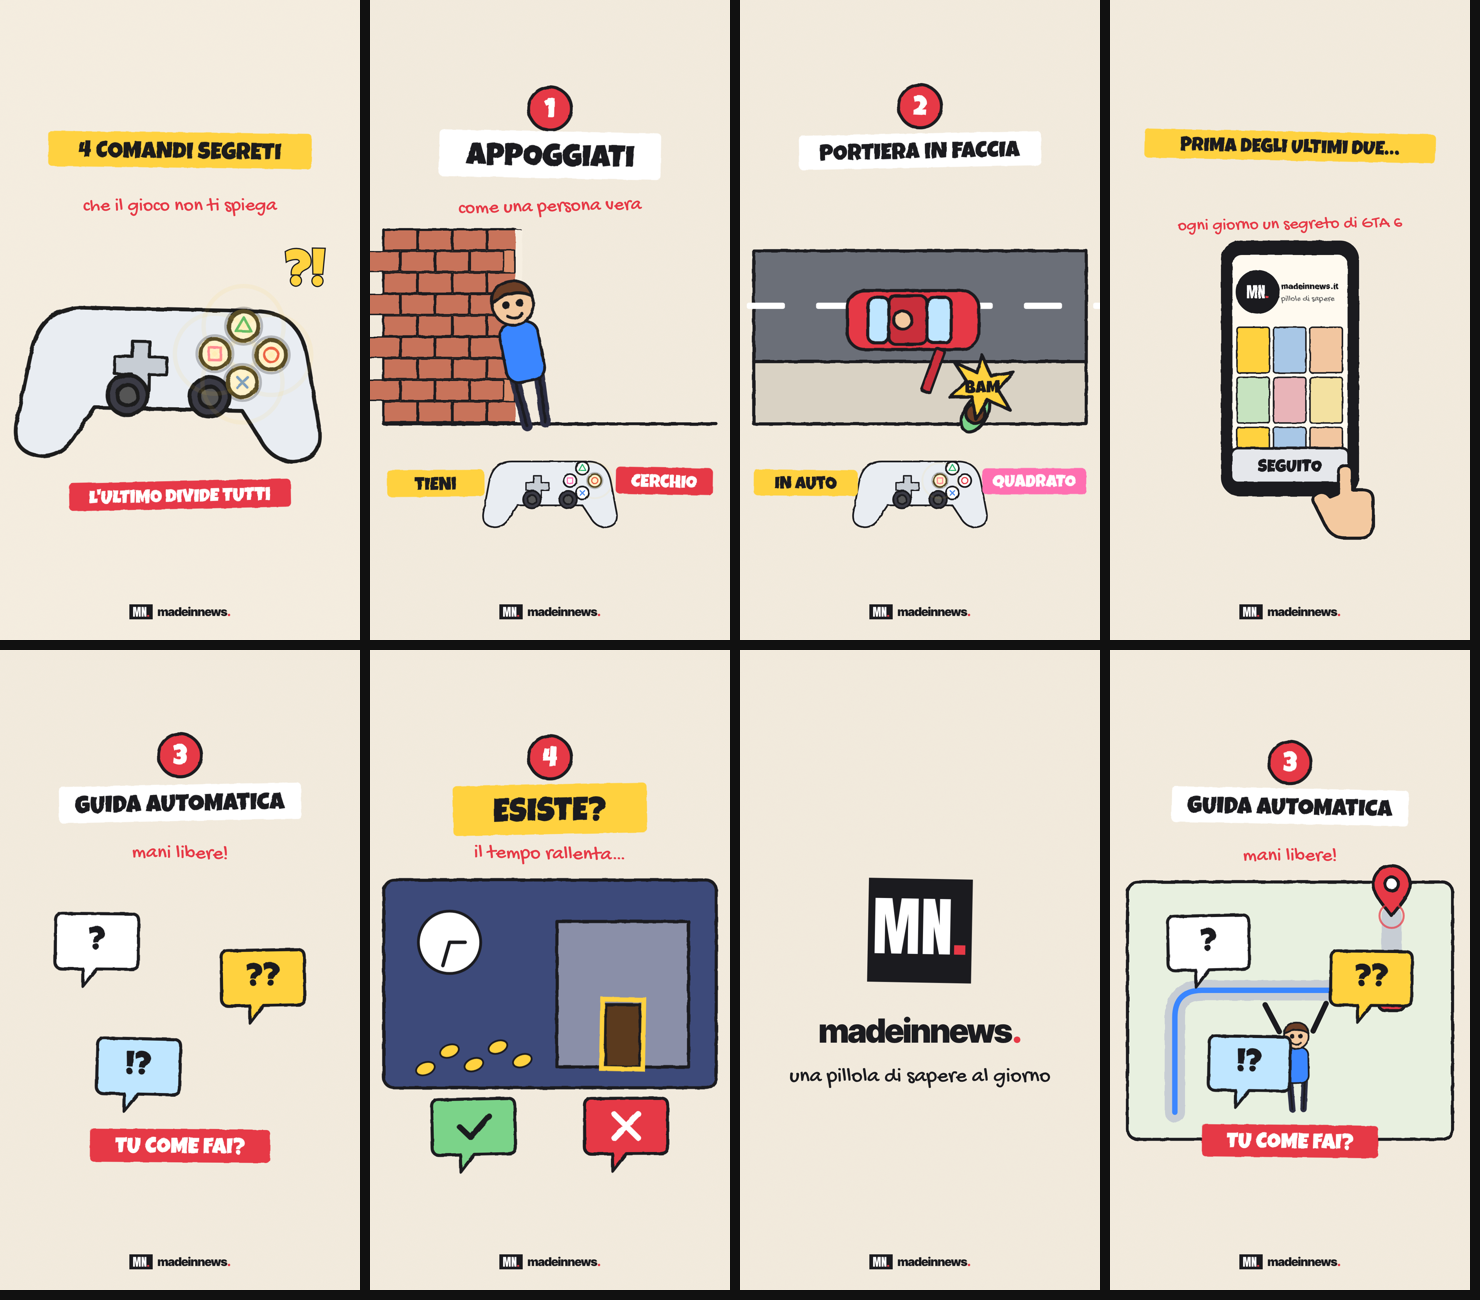
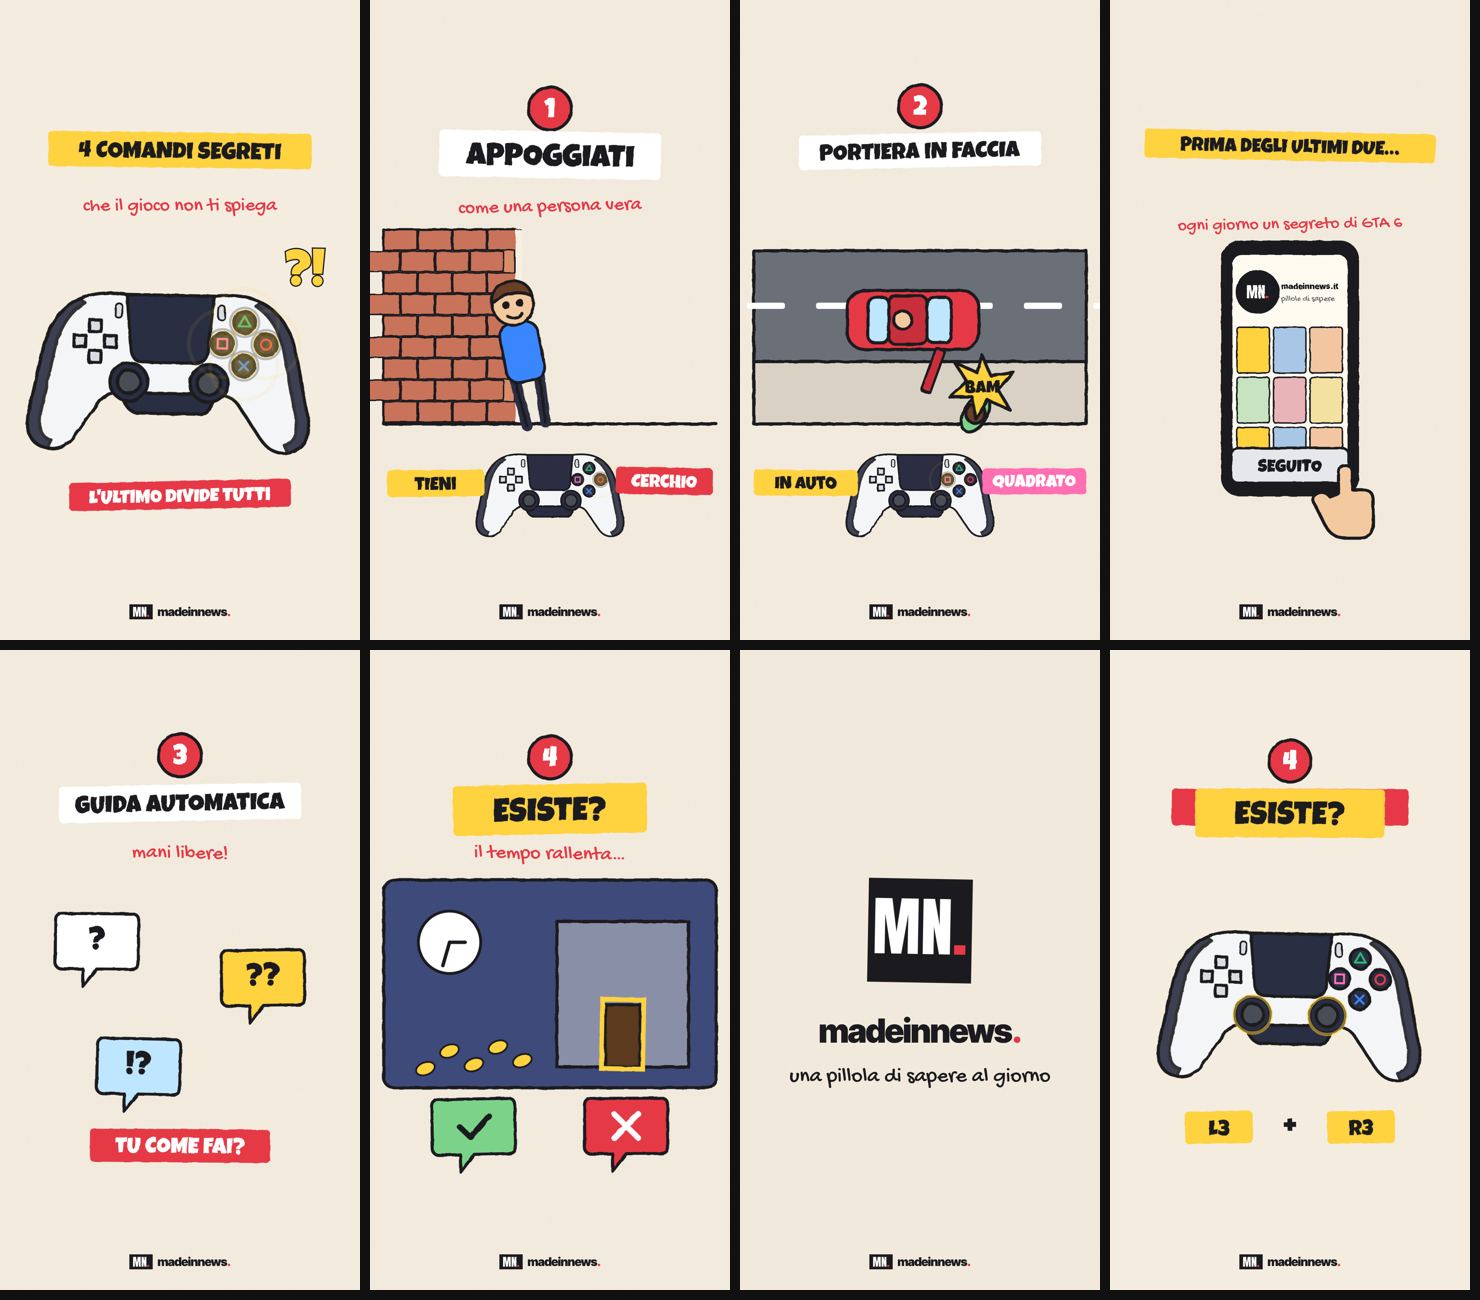
Reel comandi: nuovo controller
Claude-Session: https://claude.ai/code/session_01RiLp1FWEa9A5i6rpLf5r8e

diff --git a/engine/comandi_build.js b/engine/comandi_build.js
@@ -49,14 +49,20 @@ const pistol=(x,y,s=1)=>`<g transform="translate(${x},${y}) scale(${s})" filter=
 const target=(x,y,s=1)=>`<g transform="translate(${x},${y}) scale(${s})" filter="url(#wob)" ${W}><circle r="90" fill="#fff"/><circle r="62" fill="${RED}"/><circle r="36" fill="#fff"/><circle r="14" fill="${RED}"/></g>`;
 const pin=(x,y,t,c=RED)=>`<g data-drop="${t},0.6,-400"><g filter="url(#wob)" ${W}><path d="M${x} ${y} c-34 -44 -54 -64 -54 -94 a54 54 0 0 1 108 0 c0 30 -20 50 -54 94z" fill="${c}"/><circle cx="${x}" cy="${y-94}" r="20" fill="#fff"/></g></g><circle cx="${x}" cy="${y}" r="16" fill="none" stroke="${c}" stroke-width="6" data-ripple="${t},1.4"/>`;
 const PSG='#2bb673',PSR='#e63946',PSB='#3a86ff',PSP='#ff6fb1';
-const BTN={tri:[170,-95],cir:[235,-30],cro:[170,35],squ:[105,-30],l3:[-95,70],r3:[95,70]};
+const BTN={tri:[205,-95],cir:[265,-35],cro:[205,25],squ:[145,-35],l3:[-110,75],r3:[110,75]};
 const controller=(x,y,s,hlt={})=>`<g transform="translate(${x},${y}) scale(${s})">
- <g filter="url(#wob)" ${W}><path d="M-200 -130 L200 -130 Q300 -130 320 -20 L350 140 Q360 210 290 215 Q240 215 210 160 L170 100 L-170 100 L-210 160 Q-240 215 -290 215 Q-360 210 -350 140 L-320 -20 Q-300 -130 -200 -130Z" fill="#e9edf2"/>
- <path d="M-195 -55 h50 v-45 h50 v45 h50 v50 h-50 v45 h-50 v-45 h-50z" transform="translate(30,25) scale(.8)" fill="#c7cdd4"/>
- ${[['tri',PSG],['cir',PSR],['cro',PSB],['squ',PSP]].map(([k,c])=>`<circle cx="${BTN[k][0]}" cy="${BTN[k][1]}" r="34" fill="#fff"/>`).join('')}
- <path d="M170 -115 l18 32 h-36z" fill="none" stroke="${PSG}" stroke-width="6"/><circle cx="235" cy="-30" r="16" fill="none" stroke="${PSR}" stroke-width="6"/><path d="M158 23 l24 24 M182 23 l-24 24" stroke="${PSB}" stroke-width="6"/><rect x="91" y="-44" width="28" height="28" fill="none" stroke="${PSP}" stroke-width="6"/>
- <circle cx="-95" cy="70" r="46" fill="#3a3a44"/><circle cx="95" cy="70" r="46" fill="#3a3a44"/><circle cx="-95" cy="70" r="24" fill="#555"/><circle cx="95" cy="70" r="24" fill="#555"/></g>
- ${Object.entries(hlt).map(([k,t])=>`<g data-fade="${t},0.2" style="opacity:0"><g data-flash="${t},0.35,0.35"><circle cx="${BTN[k][0]}" cy="${BTN[k][1]}" r="${k[1]=='3'?54:42}" fill="${YEL}" opacity=".75" stroke="${INK}" stroke-width="6"/></g></g><circle cx="${BTN[k][0]}" cy="${BTN[k][1]}" r="40" fill="none" stroke="${YEL}" stroke-width="10" data-ripple="${t},1.2"/>`).join('')}</g>`;
+ <g filter="url(#wob)" ${W}>
+ <path d="M-250 -150 Q-200 -175 -120 -165 L120 -165 Q200 -175 250 -150 Q330 -110 350 0 L385 170 Q395 250 330 262 Q285 268 255 225 L190 130 Q170 105 130 105 L-130 105 Q-170 105 -190 130 L-255 225 Q-285 268 -330 262 Q-395 250 -385 170 L-350 0 Q-330 -110 -250 -150Z" fill="#f4f5f7"/>
+ <path d="M-120 -165 L120 -165 L105 -10 Q100 20 70 20 L-70 20 Q-100 20 -105 -10Z" fill="#2b2d42"/>
+ <path d="M-130 105 L130 105 Q120 150 90 160 L-90 160 Q-120 150 -130 105Z" fill="#2b2d42"/>
+ <path d="M-350 0 Q-330 -110 -250 -150 L-235 -140 Q-300 -100 -318 0 L-352 170 Q-360 230 -320 240 L-330 262 Q-395 250 -385 170Z" fill="#2b2d42" opacity=".9"/>
+ <path d="M350 0 Q330 -110 250 -150 L235 -140 Q300 -100 318 0 L352 170 Q360 230 320 240 L330 262 Q395 250 385 170Z" fill="#2b2d42" opacity=".9"/>
+ ${[[0,-1],[0,1],[-1,0],[1,0]].map(([dx,dy])=>`<path d="M${-205+dx*42-16} ${-35+dy*42-16} h32 v32 h-32z" transform="rotate(${dx?0:0})" fill="#d9dde3"/>`).join('')}
+ ${['tri','cir','cro','squ'].map(k=>`<circle cx="${BTN[k][0]}" cy="${BTN[k][1]}" r="30" fill="#2b2d42"/>`).join('')}
+ <circle cx="-110" cy="75" r="52" fill="#2b2d42"/><circle cx="110" cy="75" r="52" fill="#2b2d42"/><circle cx="-110" cy="75" r="32" fill="#4a4e57"/><circle cx="110" cy="75" r="32" fill="#4a4e57"/>
+ <rect x="-150" y="-140" width="18" height="40" rx="8" fill="#d9dde3" stroke-width="5"/><rect x="132" y="-140" width="18" height="40" rx="8" fill="#d9dde3" stroke-width="5"/></g>
+ <g stroke-width="6" fill="none" stroke-linecap="round" stroke-linejoin="round"><path d="M205 -112 l16 28 h-32z" stroke="${PSG}"/><circle cx="265" cy="-35" r="14" stroke="${PSR}"/><path d="M193 13 l24 24 M217 13 l-24 24" stroke="${PSB}"/><rect x="132" y="-48" width="26" height="26" stroke="${PSP}"/></g>
+ ${Object.entries(hlt).map(([k,t])=>`<g data-fade="${t},0.2" style="opacity:0"><g data-flash="${t},0.35,0.35"><circle cx="${BTN[k][0]}" cy="${BTN[k][1]}" r="${k[1]=='3'?60:40}" fill="${YEL}" opacity=".8" stroke="${INK}" stroke-width="6"/></g></g><circle cx="${BTN[k][0]}" cy="${BTN[k][1]}" r="40" fill="none" stroke="${YEL}" stroke-width="10" data-ripple="${t},1.2"/>`).join('')}</g>`;
 const badge=(x,y,n,t)=>pop(t,`<g transform="translate(${x},${y})" filter="url(#wob)" ${W}><circle r="62" fill="${RED}"/><text x="0" y="26" text-anchor="middle" ${F('Luckiest Guy')} font-size="80" fill="#fff" stroke="none">${n}</text></g>`);
 const carTop=(x,y,col=RED)=>`<g transform="translate(${x},${y})" filter="url(#wob)" ${W}><rect x="-190" y="-85" width="380" height="170" rx="50" fill="${col}"/><rect x="40" y="-65" width="70" height="130" rx="18" fill="#bfe6ff"/><rect x="-130" y="-65" width="60" height="130" rx="18" fill="#bfe6ff"/><rect x="-70" y="-70" width="110" height="140" rx="20" fill="#c92f3b"/><circle cx="-30" cy="0" r="26" fill="#f3c9a0"/></g>`;
 const pedTop=(x,y)=>`<g transform="translate(${x},${y})" filter="url(#wob)" ${W}><ellipse cx="0" cy="0" rx="58" ry="34" fill="#7bd389"/><circle cx="0" cy="0" r="28" fill="#6b3e26"/></g>`;
@@ -71,7 +77,7 @@ const V=["Quattro comandi di GTA 6 che il gioco non ti spiega. L'ultimo divide t
 const SCN=[
 {cam:"0,1.0,0,0",
  html:S(bg+`${pop(0.15,hl(420,760,'4 COMANDI SEGRETI',68,YEL))}${pop('@spiega',hand(540,640,'che il gioco non ti spiega',56,RED))}
- ${pop('@comandi',`<g data-wig="3,1.4">${controller(540,1080,1.25,{tri:'@gioco',cir:'@gioco',squ:'@spiega',cro:'@spiega'})}</g>`)}
+ ${pop('@comandi',`<g data-wig="3,1.4">${controller(540,1050,1.05,{tri:'@gioco',cir:'@gioco',squ:'@spiega',cro:'@spiega'})}</g>`)}
  ${pop('@ultimo',tagAt(540,1420,640,"L'ULTIMO DIVIDE TUTTI",54,RED,'#fff'))}${pop('@divide',`<text x="900" y="860" text-anchor="middle" ${F('Luckiest Guy')} font-size="140" fill="${YEL}" stroke="${INK}" stroke-width="7" paint-order="stroke">?!</text>`)}`)},
 {cam:"0,1.0,0,0",
  html:S(bg+`${badge(540,345,'1','@Primo')}${pop('@Primo',hl(420,640,'APPOGGIATI',90,'#fff'))}${pop('@persona',hand(540,640,'come una persona vera',56,RED))}
@@ -100,7 +106,7 @@ const SCN=[
  ${pop('@sua',bubble(420,1260,`<text x="0" y="0" text-anchor="middle" ${F('Luckiest Guy')} font-size="90" fill="${INK}" stroke="none">!?</text>`,'#bfe6ff'))}${pop('@tu',tagAt(540,1420,520,'TU COME FAI?',64,RED,'#fff'))}`)},
 {cam:"0,1.0,0,0",
  html:S(bg+`${badge(540,345,'4','@Quarto')}<g data-off="@giura">${pop('@discusso',hl(420,700,'IL PIÙ DISCUSSO',72,RED,'#fff'))}</g>${pop('@giura',hl(420,560,'ESISTE?',96,YEL))}
- <g data-off="@tempo">${pop('@premi',controller(540,1080,1.2,{l3:'@elle',r3:'@erre'}))}${pop('@elle',tagAt(330,1380,200,'L3',64,YEL))}${pop('@erre',tagAt(750,1380,200,'R3',64,YEL))}${pop('@insieme',`<text x="540" y="1440" text-anchor="middle" ${F('Luckiest Guy')} font-size="90" fill="${INK}">+</text>`)}</g>
+ <g data-off="@tempo">${pop('@premi',controller(540,1020,1.0,{l3:'@elle',r3:'@erre'}))}${pop('@elle',tagAt(330,1380,200,'L3',64,YEL))}${pop('@erre',tagAt(750,1380,200,'R3',64,YEL))}${pop('@insieme',`<text x="540" y="1440" text-anchor="middle" ${F('Luckiest Guy')} font-size="90" fill="${INK}">+</text>`)}</g>
  <g data-pop="@tempo,0.5" ${C}><g filter="url(#wob)" ${W}><rect x="60" y="700" width="960" height="600" rx="30" fill="#3d4a7a"/><rect x="560" y="820" width="380" height="420" fill="#8a8fa8"/><rect x="700" y="1060" width="100" height="180" fill="#5b3a1e"/></g>
   <g transform="translate(250,880)"><circle r="90" fill="#fff" stroke="${INK}" stroke-width="8"/><g data-spin="40"><line x1="0" y1="0" x2="0" y2="-70" stroke="${INK}" stroke-width="10" stroke-linecap="round"/></g><line x1="0" y1="0" x2="45" y2="0" stroke="${INK}" stroke-width="10" stroke-linecap="round"/></g></g>
  ${pop('@ingressi',`<rect x="690" y="1050" width="120" height="200" fill="none" stroke="${YEL}" stroke-width="14" data-flash="0,0.4,0.4" filter="url(#wob)"/>`)}
